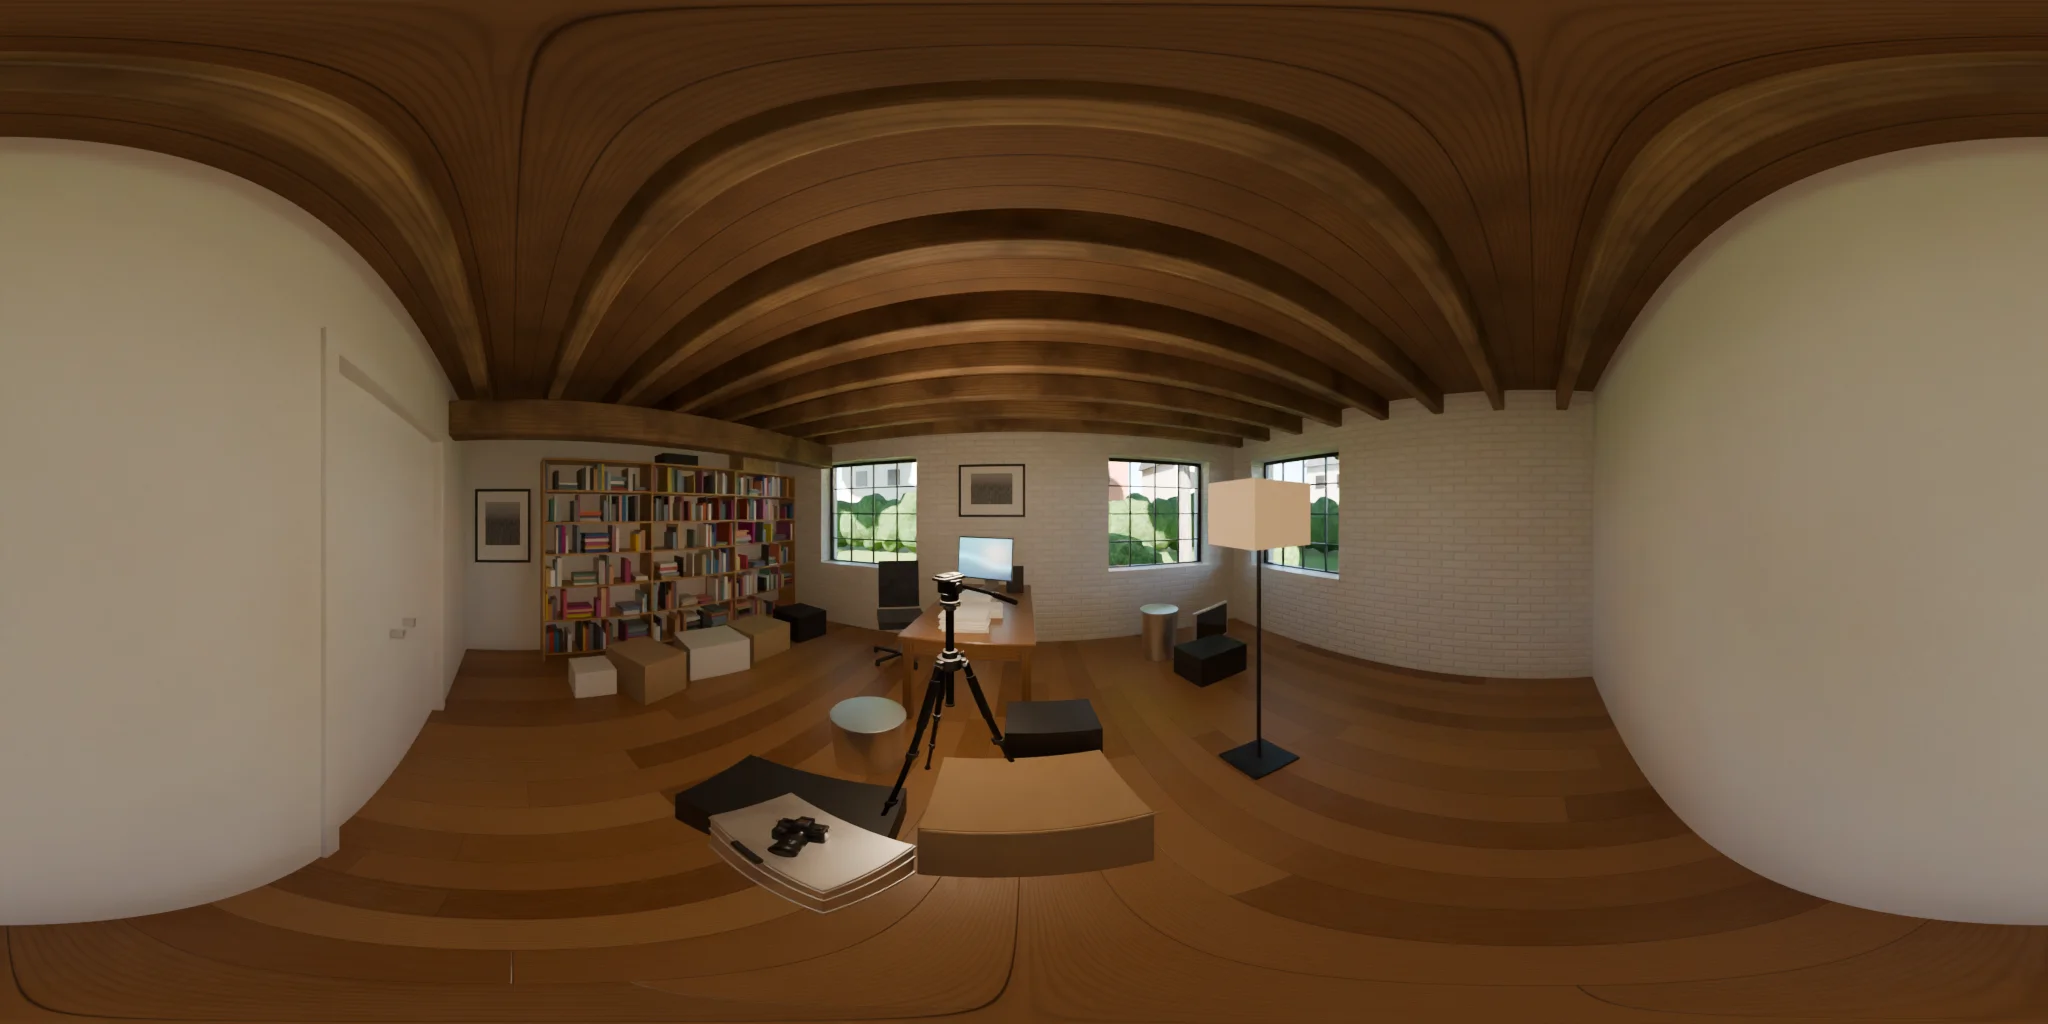
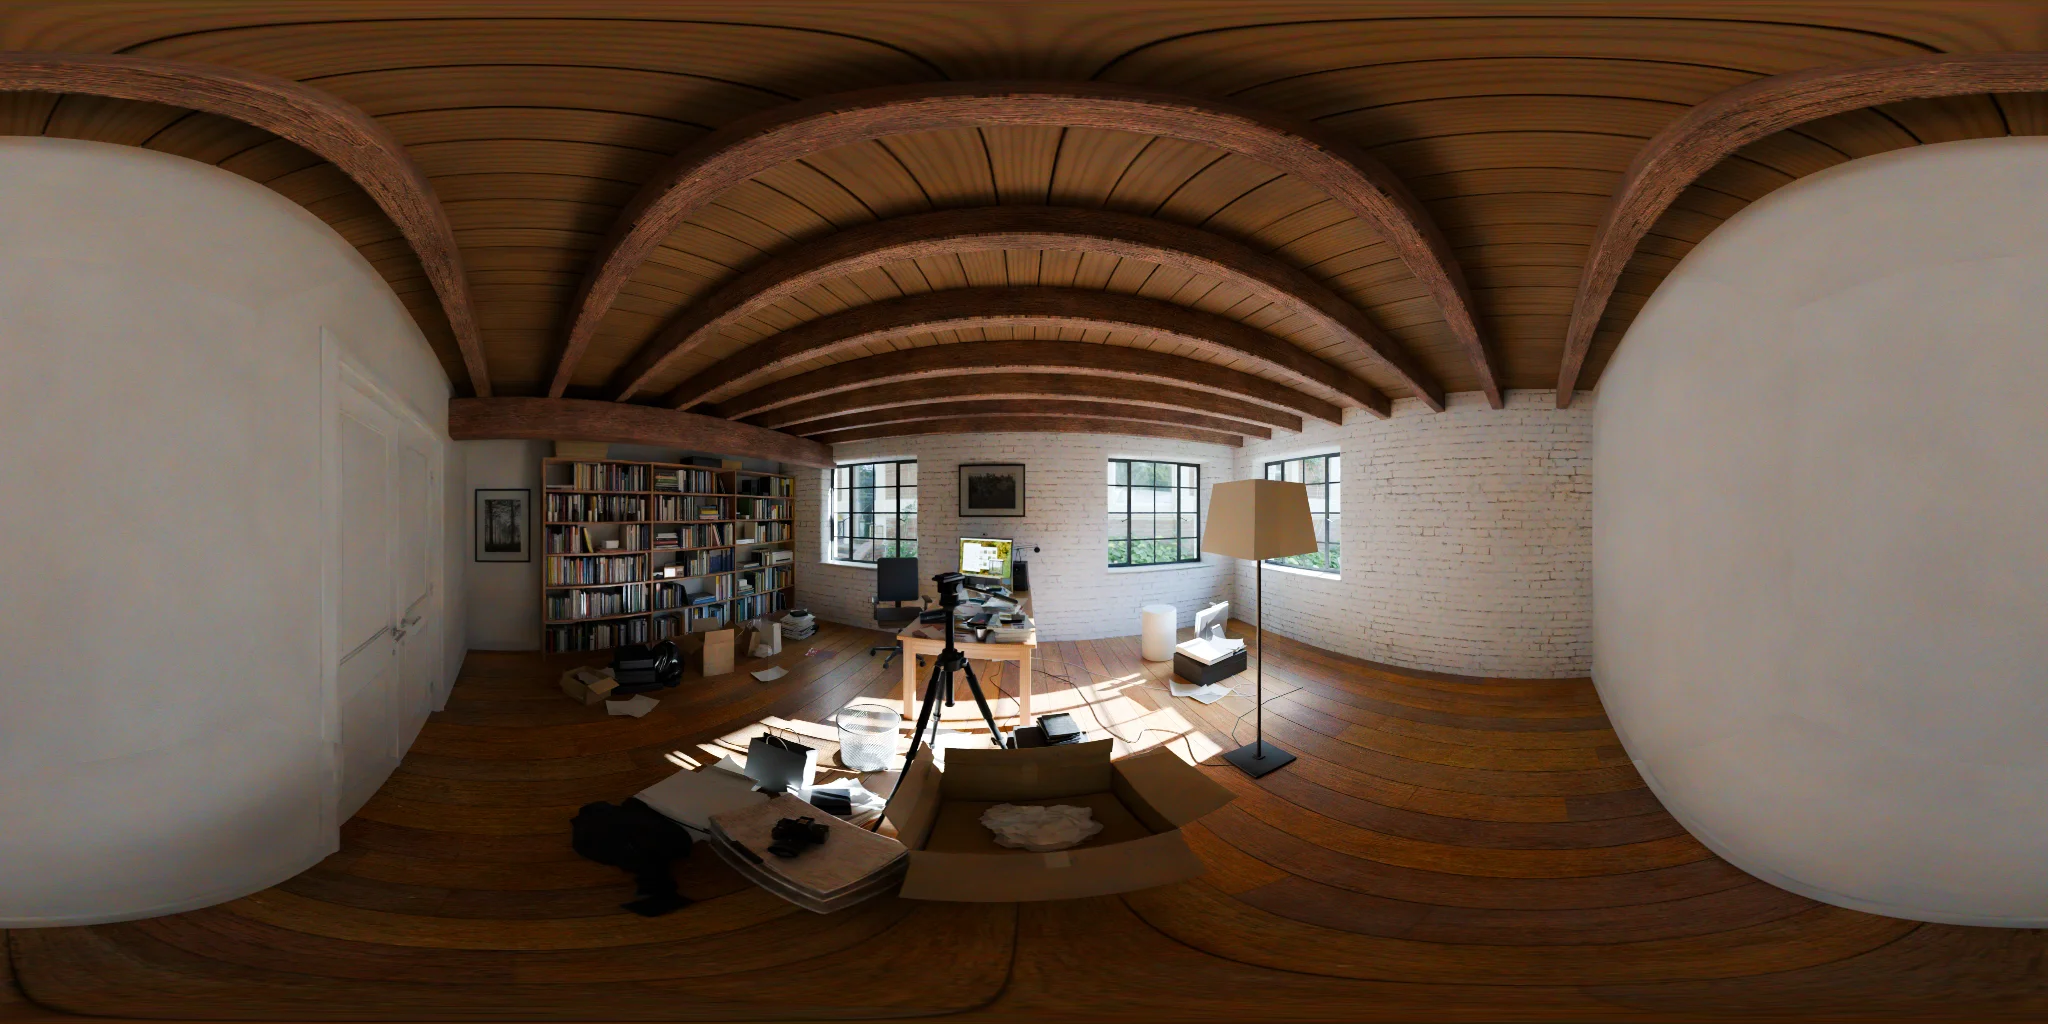
Update floorboard docstring: the material now reads board attributes
Claude-Session: https://claude.ai/code/session_01GspCyA6NHTsaRGqszumzgp

diff --git a/blender/lib/architecture.py b/blender/lib/architecture.py
@@ -176,9 +176,8 @@ def _breaks(fixed, lo, hi, step, keep=0.08):
 
 
 def _board_edges(x0, x1):
-    """Board edges across the floor. Follows the floorboards material's world-space
-    board function (x/0.19 + 0.22 sin 1.9x + 0.13 sin(4.3x + 1)) so the geometry and
-    any world-projected seams agree."""
+    """Board edges across the floor: about 19 cm boards with gently varying widths.
+    The floor material shades each board from its board_id/board_rand attributes."""
     def f(x):
         return x / 0.19 + 0.22 * math.sin(1.9 * x) + 0.13 * math.sin(4.3 * x + 1.0)
 
